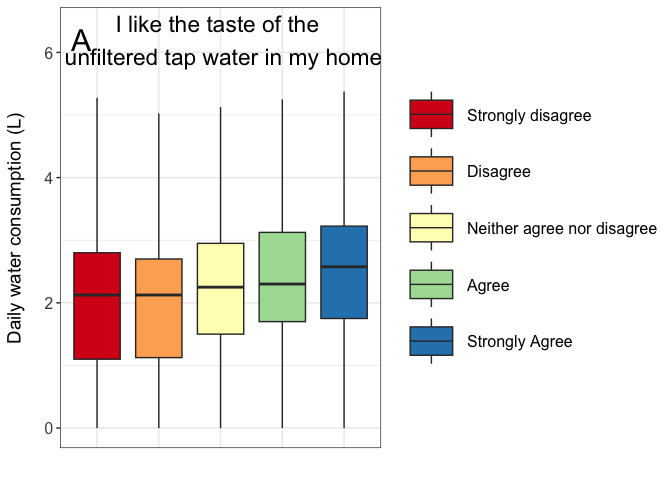
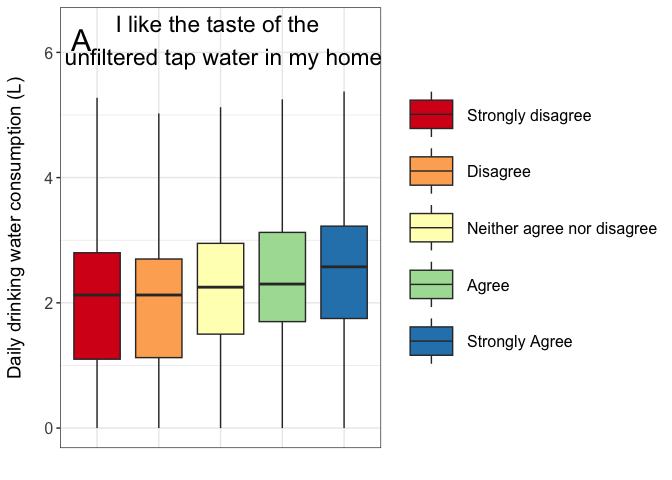
Updating to clarify the axis names Remove non-relevant chunk - tangential to the the intervention

Changed region(s): [[0.0, 0.1562, 0.0312, 0.8125]]

diff --git a/Scripts/2.-WaterQuestionnaireDescriptivesAnalysis.md b/Scripts/2.-WaterQuestionnaireDescriptivesAnalysis.md
@@ -1,7 +1,7 @@
 **Water Questionnaire 2 - Cleaning - Descriptives - Analysis**
 ================
 Daniel Schillereff and Ruth CE Bowyer
-2024-06-24
+2024-06-26
 
 - [**0. About**](#0-about)
 - [**1. Data**](#1-data)
@@ -27,9 +27,7 @@ Daniel Schillereff and Ruth CE Bowyer
   - [**2j. Do people who consider tap water to be good for health drink
     more? (Question
     7)**](#2j-do-people-who-consider-tap-water-to-be-good-for-health-drink-more-question-7)
-  - [**2k. Concerns around affordability and environmental
-    impact**](#2k-concerns-around-affordability-and-environmental-impact)
-  - [**2l. Unusual visual appearance**](#2l-unusual-visual-appearance)
+  - [**2k. Unusual visual appearance**](#2k-unusual-visual-appearance)
 
 ## **0. About**
 
@@ -818,7 +816,7 @@ water.c.demo <- cbind(water.c.demo, q7_8, q5.filt)
 
 #Do people who like their water drink more?
 p7 <- ggplot(subset(water.c.demo, !is.na(q8)), aes(q8, total.drink.L, fill=q8)) + geom_boxplot(outlier.shape = NA) + theme_bw() +     scale_y_continuous(limits = c(0, 6.4)) +
-  ylab("Daily water consumption (L)") + xlab("") + scale_fill_brewer(palette = "Spectral", labels = c("Strongly disagree", "Disagree", "Neither agree nor disagree", "Agree", "Strongly Agree", NA)) +  theme(axis.text.x=element_blank(), axis.ticks.x=element_blank()) +
+  ylab("Daily drinking water consumption (L)") + xlab("") + scale_fill_brewer(palette = "Spectral", labels = c("Strongly disagree", "Disagree", "Neither agree nor disagree", "Agree", "Strongly Agree", NA)) +  theme(axis.text.x=element_blank(), axis.ticks.x=element_blank()) +
   theme(axis.title.y = element_text(margin = margin(r=15))) +
   theme(axis.text=element_text(size=12), axis.title=element_text(size=14)) +
   theme(legend.title = element_blank(), legend.key.size = unit(1.5, "cm"), legend.text = element_text(size = 12)) +
@@ -960,7 +958,7 @@ s <- s1+s2+s3+s4+s5
 ``` r
 #Do people who consider tap water to be good for health drink more?
 p8 <- ggplot(subset(water.c.demo, !is.na(q7)), aes(q7, total.drink.L, fill=q7)) + geom_boxplot(outlier.shape = NA) + theme_bw() +     scale_y_continuous(limits = c(0, 6.4)) +
-  ylab("Daily water consumption (L)") + xlab("") + scale_fill_brewer(palette = "Spectral", labels = c("Strongly disagree", "Disagree", "Neither agree nor disagree", "Agree", "Strongly Agree", NA)) +  theme(axis.text.x=element_blank(), axis.ticks.x=element_blank()) +
+  ylab("Daily drinking water consumption (L)") + xlab("") + scale_fill_brewer(palette = "Spectral", labels = c("Strongly disagree", "Disagree", "Neither agree nor disagree", "Agree", "Strongly Agree", NA)) +  theme(axis.text.x=element_blank(), axis.ticks.x=element_blank()) +
   theme(axis.title.y = element_text(margin = margin(r=15))) +
   theme(axis.text=element_text(size=12), axis.title=element_text(size=14)) +
   theme(legend.title = element_blank(), legend.key.size = unit(1.5, "cm"), legend.text = element_text(size = 12)) +
@@ -1044,96 +1042,7 @@ dunnTest(total.drink.L ~ q7,
     ## 9  9.876921e-08
     ## 10 1.889406e-02
 
-### **2k. Concerns around affordability and environmental impact**
-
-``` r
-df.q.filt <- merge(df.q, water.c.demo, by.x = "ParticipantID", by.y = "study_no")
-
-q12_13 <- as.data.frame(apply(df.q.filt[c("q12" , "q13")],2,function(x){
-  x <- as.factor(x)
-  levels(x) <- c("0. Never", "1. Occasionally", "2. Sometimes", "3. Frequently", "4. Always", NA, "Fixed tariff")
-  return(x)
-}))
-
-
-water.concerns <- cbind(water.c.demo, q12_13)
-
-
-#How often
-water.concerns.long <- pivot_longer(
-    water.concerns, 
-    cols = `q12`:`q13`, 
-      names_to = "Question",
-      values_to = "How_often", 
-    cols_vary = "slowest",
-      ) 
-
-labels.questions <- setNames(c("Affordability", "Environmental impact"), c("q12", "q13"))
-
-#Stacked bar chart of q12 and q13 responses
-pp1 <- ggplot(water.concerns.long, aes(x = Question, fill = How_often)) + 
-    geom_bar() +
-    scale_fill_viridis_d(labels = c("Strongly disagree", "Disagree", "Neither agree nor disagree", "Agree", "Strongly Agree", "Fixed tariff", "")) +
-    theme_bw() +
-    ylab("Number of responses") +
-    xlab("") +
-    scale_x_discrete(labels = labels.questions) +
-   guides(fill = guide_legend(title = ""))
-
-#Percentages
-pp2 <- ggplot(water.concerns.long, aes(x = Question, fill = How_often)) + 
-    geom_bar(position = "fill") +
-    scale_fill_viridis_d(labels = c("Strongly disagree", "Disagree", "Neither agree nor disagree", "Agree", "Strongly Agree", "Fixed tariff", "")) +
-    theme_bw() +
-    ylab("Number of responses (%)") +
-    xlab("") +
-    scale_x_discrete(labels = labels.questions) +
-   guides(fill = guide_legend(title = ""))
-
-p9 <- ggarrange(pp1, pp2, ncol = 2, nrow = 1, common.legend = TRUE)
-
-p9
-```
-
-![](2.-WaterQuestionnaireDescriptivesAnalysis_files/figure-gfm/unnamed-chunk-25-1.png)<!-- -->
-
-``` r
-#Question 12 - affordability vs drinking
-ggplot(water.concerns, aes(q12, total.drink.L, fill=q12)) + 
-  geom_boxplot(outlier.shape = NA) + theme_bw() + scale_y_continuous(limits = c(0, 6.2)) +
-  ylab("Daily water consumption (L)") + xlab("") + scale_fill_brewer(palette = "Spectral") + theme(axis.text.x=element_blank(), axis.ticks.x=element_blank()) + ggtitle("Q12: Have you limited all forms of water usage in the home and garden \n because of concerns around affordability")
-```
-
-![](2.-WaterQuestionnaireDescriptivesAnalysis_files/figure-gfm/unnamed-chunk-26-1.png)<!-- -->
-
-``` r
-#Question 13 - environmental impact vs drinking
-ggplot(water.concerns, aes(q13, total.drink.L, fill=q13)) + 
-  geom_boxplot(outlier.shape = NA) + theme_bw() + scale_y_continuous(limits = c(0, 6.2)) +
-  ylab("Daily water consumption (L)") + xlab("") + scale_fill_brewer(palette = "Spectral") + theme(axis.text.x=element_blank(), axis.ticks.x=element_blank()) + ggtitle("Q13: Have you limited all forms of water usage in the home and garden \n because of concerns around environmental impact")
-```
-
-![](2.-WaterQuestionnaireDescriptivesAnalysis_files/figure-gfm/unnamed-chunk-27-1.png)<!-- -->
-
-``` r
-#Question 12 - affordability vs total consumption (drinking + cooking)
-ggplot(water.concerns, aes(q12, total.consump.L, fill=q12)) + 
-  geom_boxplot(outlier.shape = NA) + theme_bw() + scale_y_continuous(limits = c(0, 6.2)) +
-  ylab("Daily water consumption (L)") + xlab("") + scale_fill_brewer(palette = "Spectral") + theme(axis.text.x=element_blank(), axis.ticks.x=element_blank()) + ggtitle("Q12: Have you limited all forms of water usage in the home and garden \n because of concerns around affordability")
-```
-
-![](2.-WaterQuestionnaireDescriptivesAnalysis_files/figure-gfm/unnamed-chunk-28-1.png)<!-- -->
-
-``` r
-#Question 13 - environmental impact vs total consumption (drinking + cooking)
-ggplot(water.concerns, aes(q13, total.consump.L, fill=q13)) + 
-  geom_boxplot(outlier.shape = NA) + theme_bw() + scale_y_continuous(limits = c(0, 6.2)) +
-  ylab("Daily water consumption (L)") + xlab("") + scale_fill_brewer(palette = "Spectral") + theme(axis.text.x=element_blank(), axis.ticks.x=element_blank()) + ggtitle("Q13: Have you limited all forms of water usage in the home and garden \n because of concerns around environmental impact")
-```
-
-![](2.-WaterQuestionnaireDescriptivesAnalysis_files/figure-gfm/unnamed-chunk-29-1.png)<!-- -->
-
-### **2l. Unusual visual appearance**
+### **2k. Unusual visual appearance**
 
 ``` r
 q10 <- df.q.filt[c("q10")]
@@ -1164,7 +1073,7 @@ ggplot(q10s, aes(y = q10)) +
     xlab('Number of respondents')  
 ```
 
-![](2.-WaterQuestionnaireDescriptivesAnalysis_files/figure-gfm/unnamed-chunk-30-1.png)<!-- -->
+![](2.-WaterQuestionnaireDescriptivesAnalysis_files/figure-gfm/unnamed-chunk-25-1.png)<!-- -->
 
 ``` r
 #Summarise how often
@@ -1210,7 +1119,7 @@ p10 <- ggarrange(ppp3, ppp4, ncol = 2, nrow = 1, common.legend = TRUE)
 p10
 ```
 
-![](2.-WaterQuestionnaireDescriptivesAnalysis_files/figure-gfm/unnamed-chunk-32-1.png)<!-- -->
+![](2.-WaterQuestionnaireDescriptivesAnalysis_files/figure-gfm/unnamed-chunk-27-1.png)<!-- -->
 
 ``` r
 water.c.demo.q10s <- cbind(water.c.demo, q10s)
@@ -1229,7 +1138,7 @@ p11 <- ggplot(subset(water.c.demo.q10s, !is.na(q10)), aes(q10, total.drink.L, fi
 p11
 ```
 
-![](2.-WaterQuestionnaireDescriptivesAnalysis_files/figure-gfm/unnamed-chunk-33-1.png)<!-- -->
+![](2.-WaterQuestionnaireDescriptivesAnalysis_files/figure-gfm/unnamed-chunk-28-1.png)<!-- -->
 
 ``` r
 pairwise.wilcox.test(water.c.demo.q10s$total.drink.L, water.c.demo.q10s$q10)
@@ -1312,7 +1221,7 @@ p12 <- ggplot(subset(water.c.demo.q10s, !is.na(q10)), aes(q10, total.consump.L, 
 p12
 ```
 
-![](2.-WaterQuestionnaireDescriptivesAnalysis_files/figure-gfm/unnamed-chunk-35-1.png)<!-- -->
+![](2.-WaterQuestionnaireDescriptivesAnalysis_files/figure-gfm/unnamed-chunk-30-1.png)<!-- -->
 
 ``` r
 pairwise.wilcox.test(water.c.demo.q10s$total.consump.L, water.c.demo.q10s$q10)
